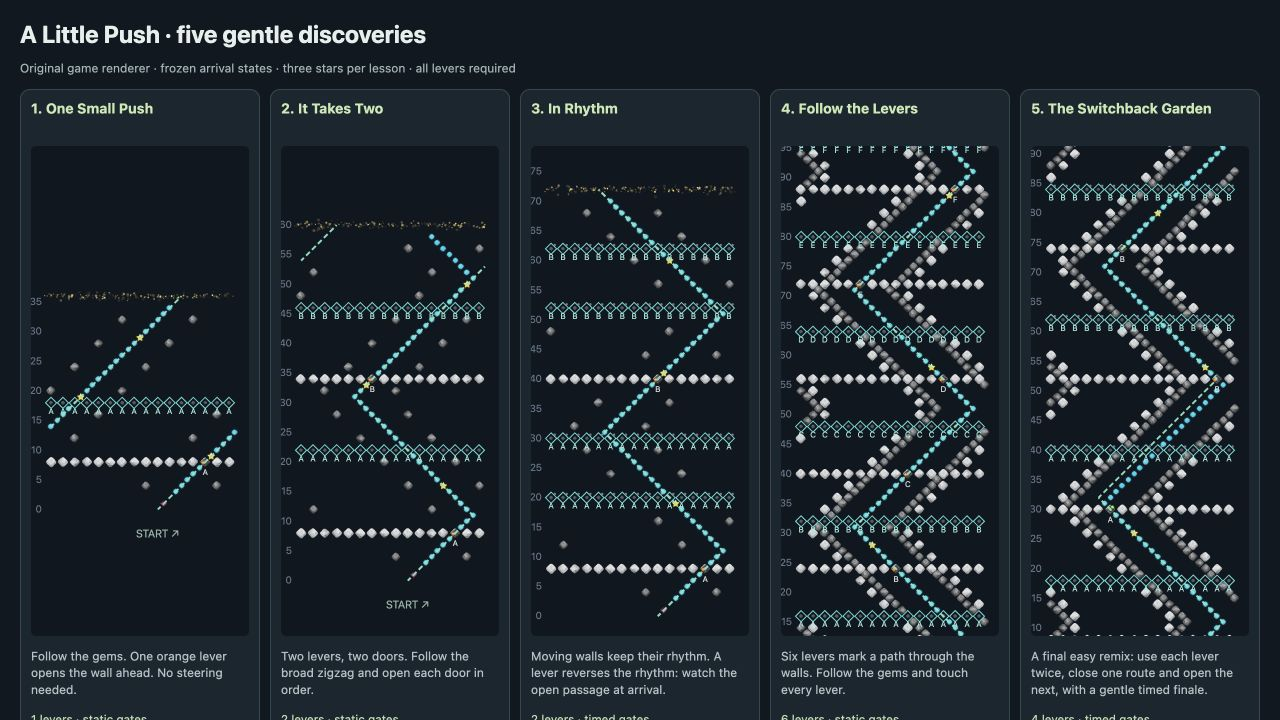
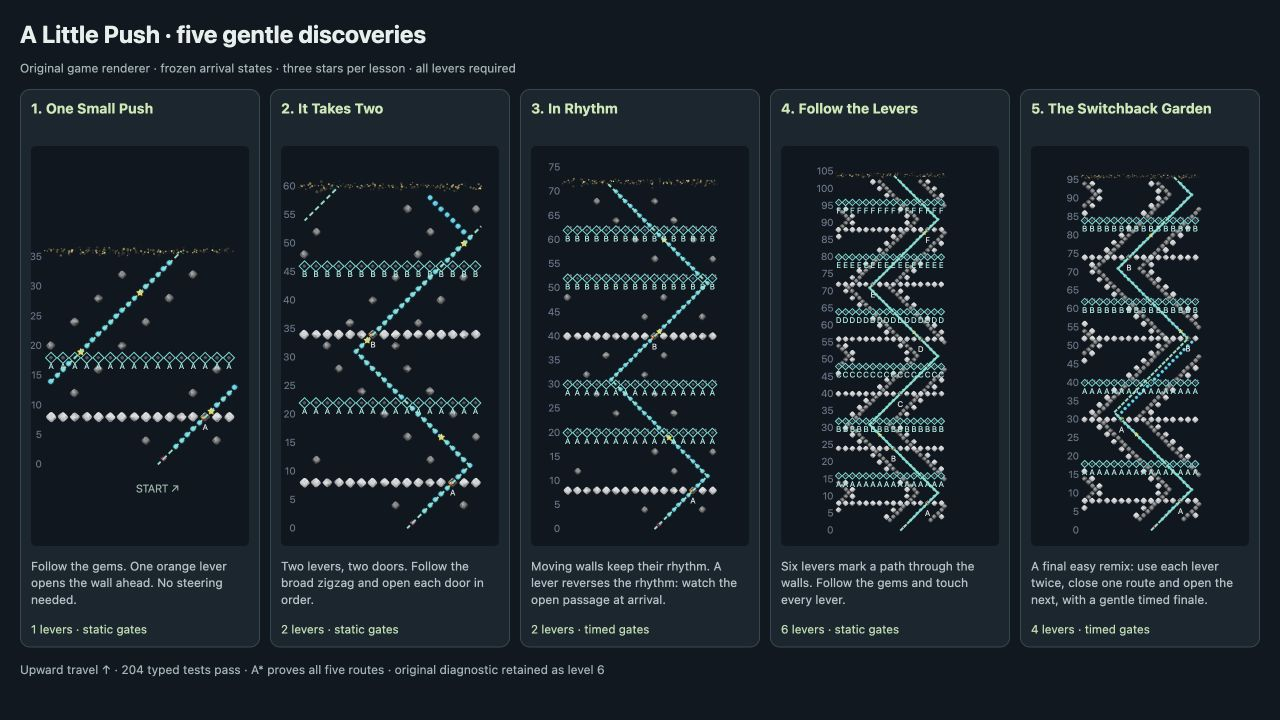
Fit complete level maps in the review and isolate preview storage

diff --git a/design/pack4/level-review.html b/design/pack4/level-review.html
@@ -8,7 +8,7 @@ const levels=await(await fetch('/pack4-lessons.json')).json();await preloadSprit
 for(const [i,level] of levels.entries()){
 const article=document.createElement('article');const title=document.createElement('h2');title.textContent=`${i+1}. ${level.name}`;article.append(title);const canvas=document.createElement('canvas');article.append(canvas);const p=document.createElement('p');p.textContent=level.lesson.concept;article.append(p);const badge=document.createElement('small');badge.textContent=`${Object.keys(level.switches.data).length} levers · ${Object.keys(level.timers.data).length?'timed gates':'static gates'}`;article.append(badge);document.querySelector('.lessons').append(article);
 const width=canvas.clientWidth,height=400,dpr=devicePixelRatio||1;canvas.width=width*dpr;canvas.height=height*dpr;
-const store=createEditorStore();store.getState().loadLevel(level,'40',false);const state=store.getState(),zoom=Math.min((width-18)/540,(height-24)/(state.height*16+32));
+const store=createEditorStore({storage:{read:()=>null,write:()=>{}},newId:()=>"preview",schedule:()=>0,cancel:()=>{}});store.getState().loadLevel(level,'40',false);const state=store.getState(),zoom=Math.min((width-18)/540,(height-24)/(state.height*16+32));
 const route=solve(importLevel(level),{allowDamage:false});const view={...state,zoom,scrollX:0,scrollY:-(height-(state.height*16+32)*zoom)/(2*zoom),showGrid:false,timingView:'arrival',route};
 const ctx=canvas.getContext('2d');ctx.setTransform(dpr,0,0,dpr,0,0);renderGrid(ctx,view,width,height,[],2000);
 }
